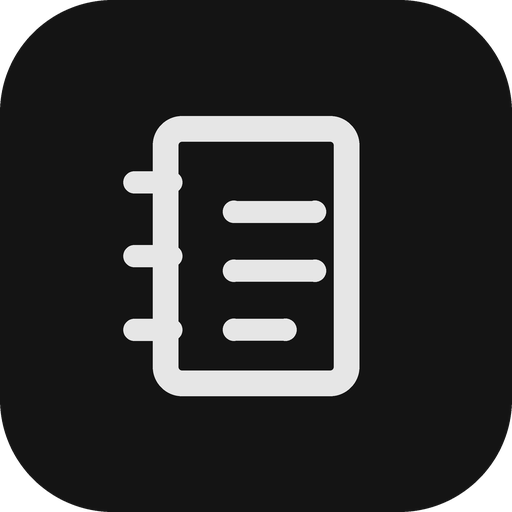
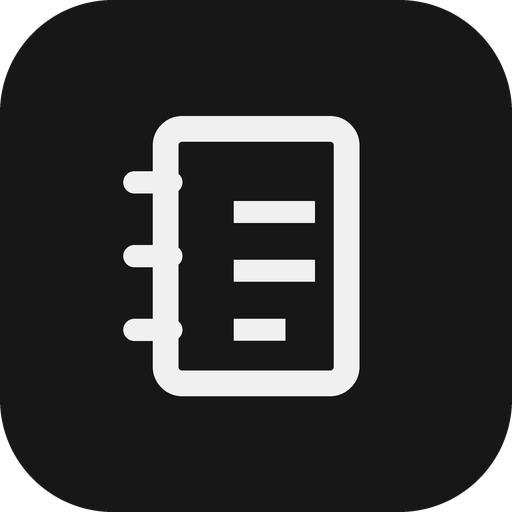
style: refine dark theme contrast and hierarchy across task, daily, and flow

diff --git a/src/index.css b/src/index.css
@@ -32,17 +32,17 @@
 /* Forced dark theme — black & gray only (no blue/teal) */
 :root {
   --bg: #0a0a0a;
-  --surface: #141414;
-  --fg: #ececec;
-  --muted: #8c8c8c;
-  --line: #222222;
-  --line-strong: #333333;
-  --accent: #e6e6e6;
+  --surface: #171717;
+  --fg: #f0f0f0;
+  --muted: #9a9a9a;
+  --line: #2c2c2c;
+  --line-strong: #3a3a3a;
+  --accent: #f0f0f0;
   --accent-fg: #0a0a0a;
-  --accent-soft: #1c1c1c;
-  --warn: #c47a6e;
-  --hover: rgba(255, 255, 255, 0.06);
-  --shadow: 0 1px 2px rgba(0, 0, 0, 0.4);
+  --accent-soft: #242424;
+  --warn: #b87f72;
+  --hover: rgba(255, 255, 255, 0.07);
+  --shadow: 0 1px 2px rgba(0, 0, 0, 0.45);
   --font: "Geist Variable", "Segoe UI", system-ui, -apple-system, sans-serif;
   color-scheme: dark;
 }

diff --git a/scripts/make-icons.py b/scripts/make-icons.py
@@ -3,8 +3,8 @@ from pathlib import Path
 from PIL import Image, ImageDraw
 
 OUT = Path(__file__).resolve().parent.parent / "public"
-BG = (20, 20, 20, 255)  # #141414 dark surface
-FG = (230, 230, 230, 255)  # #e6e6e6
+BG = (23, 23, 23, 255)  # #171717 dark surface
+FG = (240, 240, 240, 255)  # #f0f0f0
 SS = 4  # draw large and downscale for anti-aliasing
 
 
